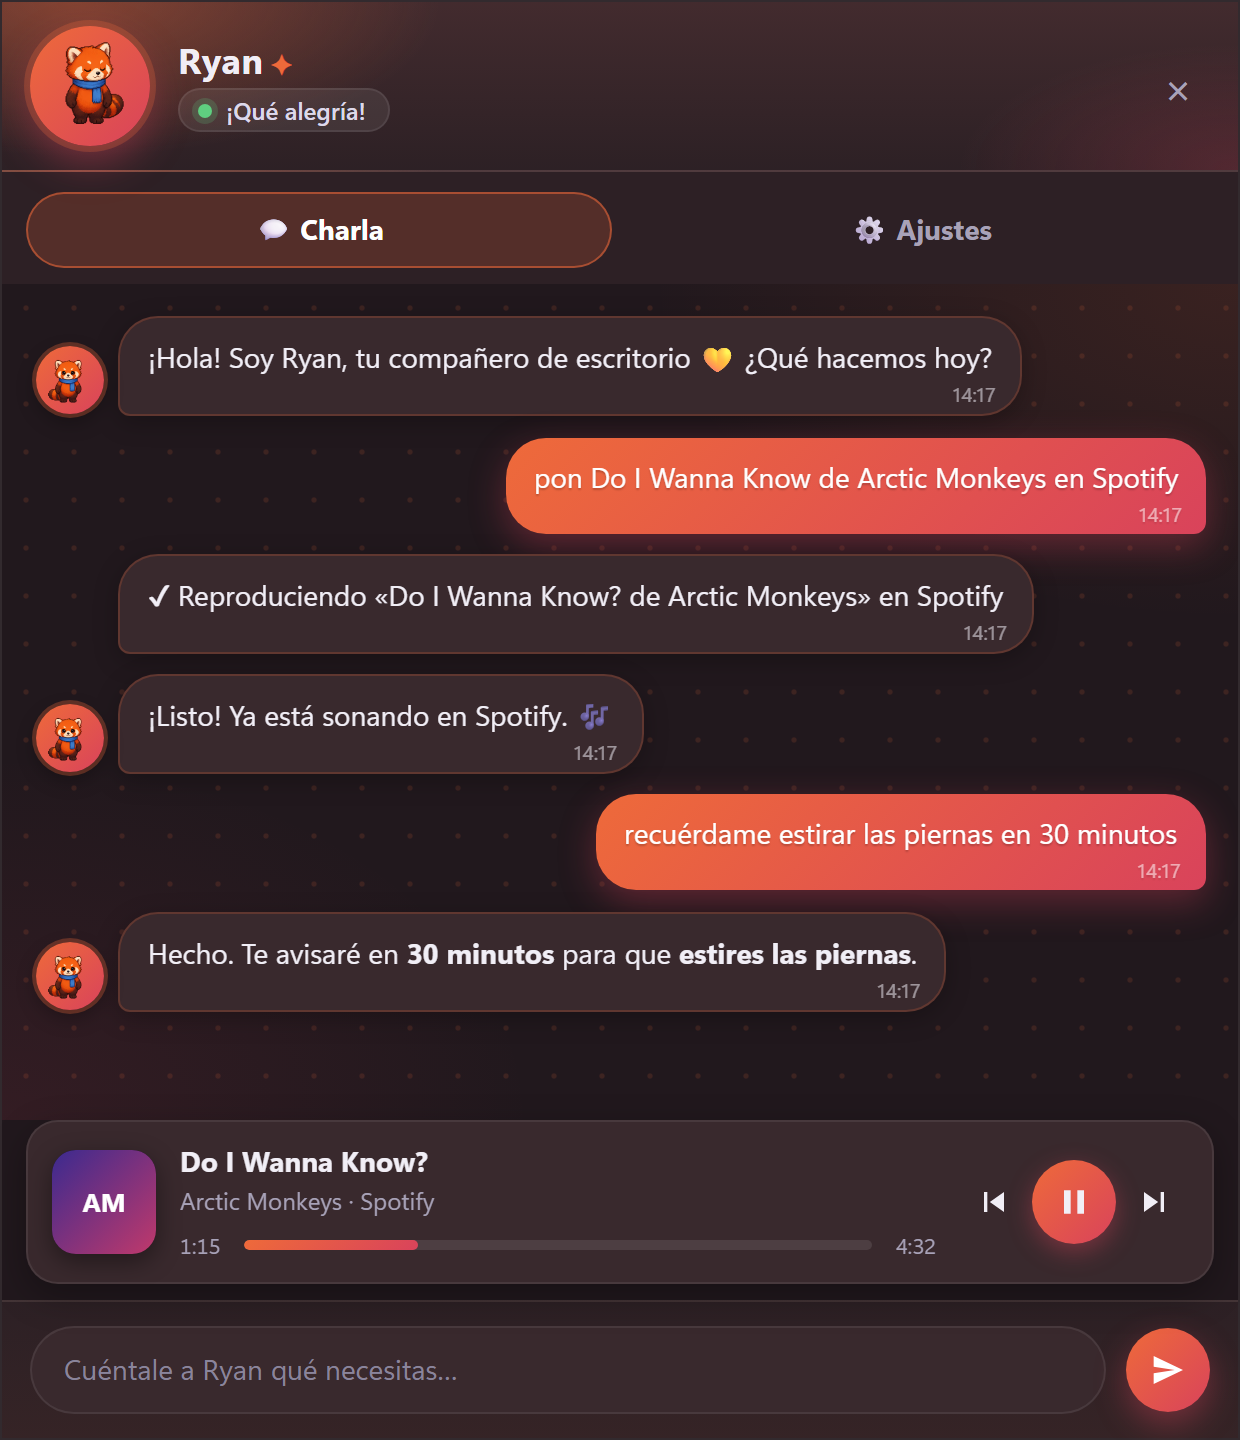
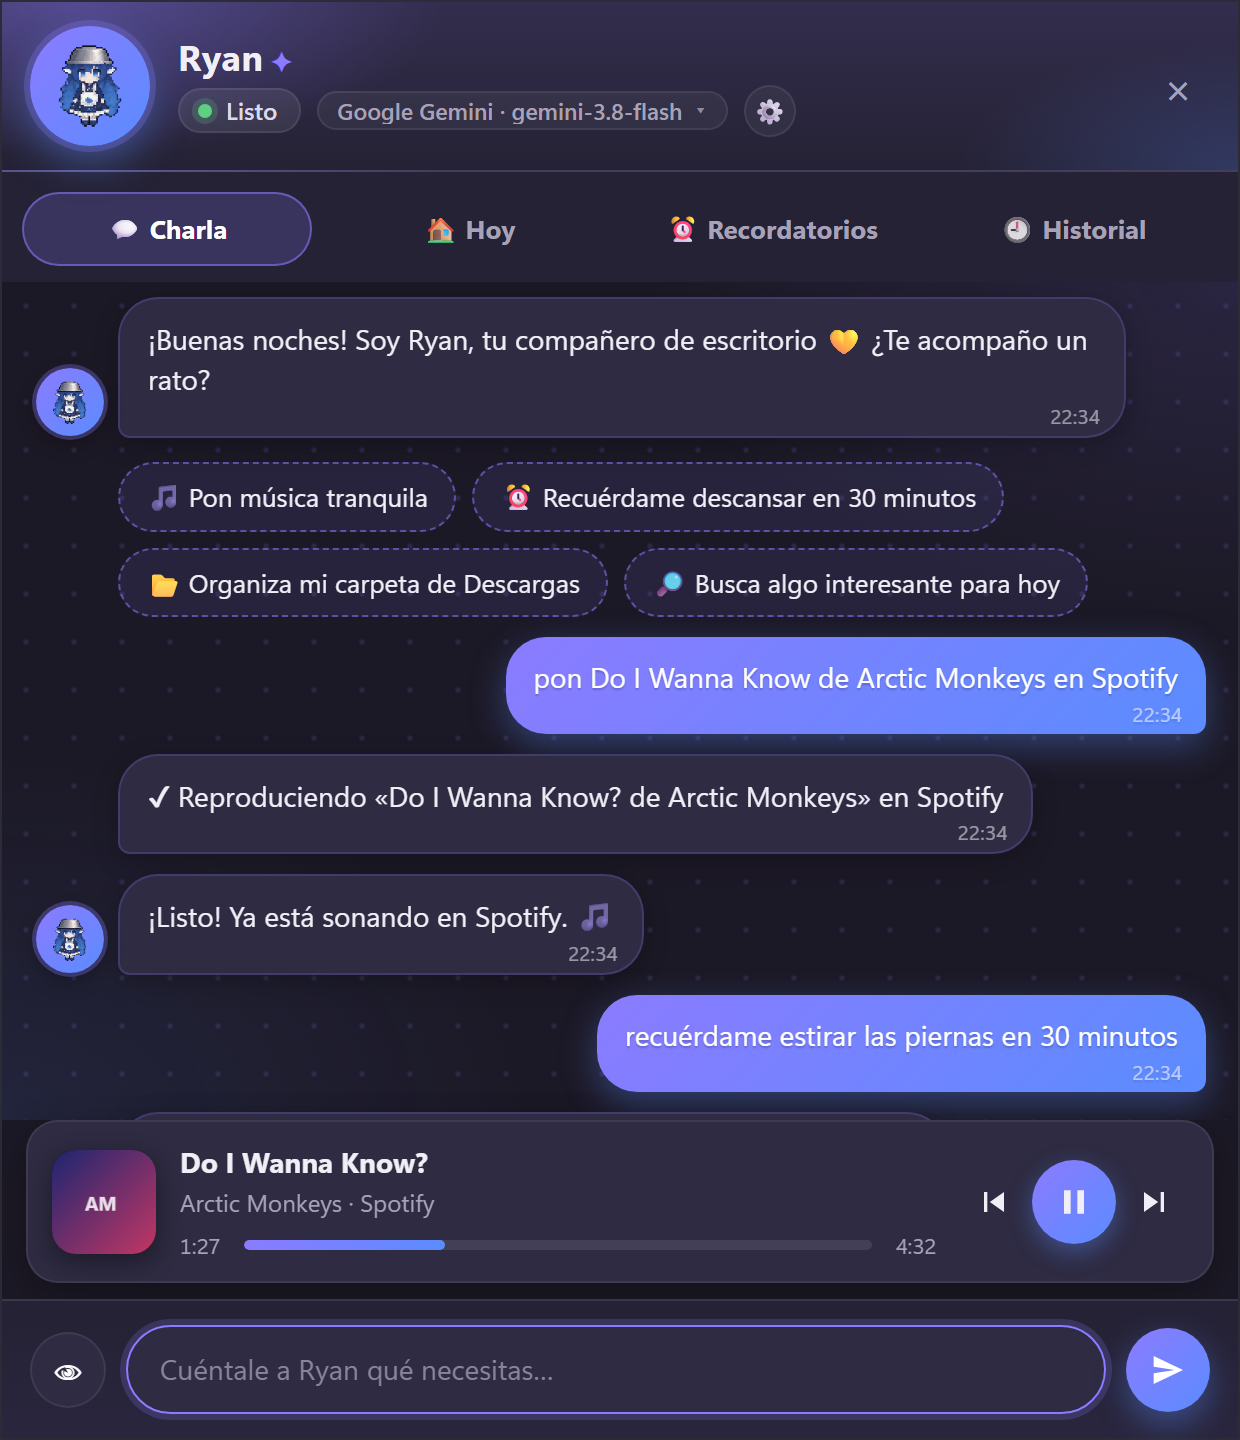
feat: add settings button and theme color adjustments for character selection

diff --git a/ui/chat.html b/ui/chat.html
@@ -16,18 +16,17 @@
       <button id="model-pill" class="model-pill" type="button" title="Cambiar de modelo" aria-haspopup="menu" aria-expanded="false" hidden>
         <span id="model-pill-text"></span><span class="caret" aria-hidden="true">▾</span>
       </button>
+      <button id="settings-btn" class="gear-btn" type="button" title="Ajustes" aria-label="Ajustes" aria-pressed="false">⚙</button>
       </div>
     </div>
     <button id="close" title="Cerrar (Esc)" aria-label="Cerrar">&times;</button>
   </header>
   <div id="model-menu" class="model-menu" role="menu" aria-label="Modelo de IA" hidden></div>
   <nav class="tabs" role="tablist">
-    <button class="tab" role="tab" data-tab="today" aria-selected="false" title="Hoy">🏠 <span class="tab-label">Hoy</span></button>
     <button class="tab active" role="tab" data-tab="chat" aria-selected="true" title="Charla">💬 <span class="tab-label">Charla</span></button>
+    <button class="tab" role="tab" data-tab="today" aria-selected="false" title="Hoy">🏠 <span class="tab-label">Hoy</span></button>
     <button class="tab" role="tab" data-tab="reminders" aria-selected="false" title="Recordatorios">⏰ <span class="tab-label">Recordatorios</span> <span id="reminder-badge" class="count" hidden></span></button>
-    <button class="tab" role="tab" data-tab="history" aria-selected="false" title="Historial">🕘 <span class="tab-label">Historial</span></button>
-    <button class="tab" role="tab" data-tab="settings" aria-selected="false">⚙ Ajustes</button>
-  </nav>
+    <button class="tab" role="tab" data-tab="history" aria-selected="false" title="Historial">🕘 <span class="tab-label">Historial</span></button></nav>
 
   <div id="view-chat" class="view">
     <main id="history"></main>

diff --git a/ui/quick.js b/ui/quick.js
@@ -170,3 +170,31 @@ listen("character-state", (e) => {
 });
 
 reset();
+
+// El color de la barra sigue al personaje elegido, igual que el chat (los colores salen de assets/characters.json).
+function hexToRgb(hex) {
+  const match = /^#([0-9a-f]{6})$/i.exec(hex ?? "");
+  if (!match) return null;
+  const n = parseInt(match[1], 16);
+  return [(n >> 16) & 255, (n >> 8) & 255, n & 255];
+}
+
+async function applyTheme() {
+  try {
+    const manifest = await fetch("assets/characters.json").then((response) => response.json());
+    const id = await invoke("get_character");
+    const entry = manifest.characters.find((c) => c.id === id) ?? manifest.characters[0];
+    const root = document.documentElement.style;
+    const accent = hexToRgb(entry.accent);
+    const accent2 = hexToRgb(entry.accent2);
+    if (accent) root.setProperty("--accent-rgb", accent.join(" "));
+    else root.removeProperty("--accent-rgb");
+    if (accent2) root.setProperty("--accent-2-rgb", accent2.join(" "));
+    else root.removeProperty("--accent-2-rgb");
+  } catch {
+    // sin el manifiesto se queda el violeta de siempre
+  }
+}
+applyTheme();
+listen("character-changed", applyTheme);
+listen("quick-opened", applyTheme);

diff --git a/ui/chat.js b/ui/chat.js
@@ -512,7 +512,16 @@ const views = {
   settings: document.getElementById("view-settings"),
 };
 
+// Ajustes vive en el engranaje de la cabecera, no entre las pestañas: se recuerda la pestaña anterior para volver a ella.
+const settingsBtn = document.getElementById("settings-btn");
+let currentTab = "chat";
+let tabBeforeSettings = "chat";
+
 function showTab(name) {
+  if (name === "settings" && currentTab !== "settings") tabBeforeSettings = currentTab;
+  currentTab = name;
+  settingsBtn.classList.toggle("active", name === "settings");
+  settingsBtn.setAttribute("aria-pressed", String(name === "settings"));
   tabs.forEach((tab) => {
     const active = tab.dataset.tab === name;
     tab.classList.toggle("active", active);
@@ -528,6 +537,8 @@ function showTab(name) {
   else if (name === "chat") input.focus();
 }
 tabs.forEach((tab) => tab.addEventListener("click", () => showTab(tab.dataset.tab)));
+// El engranaje abre Ajustes; si ya están abiertos, vuelve a lo que se estaba viendo.
+settingsBtn.addEventListener("click", () => showTab(currentTab === "settings" ? tabBeforeSettings : "settings"));
 
 // --- Recordatorios ---
 const reminderForm = document.getElementById("reminder-form");

diff --git a/ui/chat.css b/ui/chat.css
@@ -551,3 +551,12 @@ mark { padding: 0 2px; border-radius: 4px; background: rgb(var(--accent-rgb) / 0
 .risk.dangerous { color: var(--danger); background: rgba(255, 107, 99, 0.14); }
 .risk.muted { color: var(--muted); background: rgba(255, 255, 255, 0.06); font-weight: 600; }
 .apps-bar { display: flex; flex-wrap: wrap; align-items: center; gap: 8px; }
+
+/* ---------- Engranaje de Ajustes en la cabecera ---------- */
+.gear-btn {
+  display: grid; width: 26px; height: 26px; flex: none; padding: 0; place-items: center; border: 1px solid var(--line); border-radius: 50%;
+  background: rgba(255, 255, 255, 0.05); font-size: 13px; line-height: 1; cursor: pointer;
+  transition: transform 0.25s, background 0.15s, border-color 0.15s;
+}
+.gear-btn:hover { background: rgb(var(--accent-rgb) / 0.18); border-color: rgb(var(--accent-rgb) / 0.55); transform: rotate(60deg); }
+.gear-btn.active { background: rgb(var(--accent-rgb) / 0.32); border-color: rgb(var(--accent-rgb) / 0.8); }

diff --git a/ui/quick.css b/ui/quick.css
@@ -3,8 +3,9 @@
   --accent-rgb: 139 123 255;
   --accent-2-rgb: 91 140 255;
   --accent: rgb(var(--accent-rgb));
-  --bg: #1d1b26;
-  --card: #26232f;
+  /* Los fondos se tiñen con el color del personaje, como en el chat. */
+  --bg: color-mix(in srgb, var(--accent) 7%, #1a1822);
+  --card: color-mix(in srgb, var(--accent) 12%, #25222e);
   --line: rgba(255, 255, 255, 0.1);
   --text: #f1eef6;
   --muted: #a8a2b8;

diff --git a/README.md b/README.md
@@ -81,7 +81,7 @@ Trae siete personajes; puedes [añadir los tuyos](#añadir-un-personaje).
 | --- | --- |
 | **Personaje** | Se anima según lo que hace (reposo, pensando, trabajando, contenta…), pasea por el escritorio, mira hacia el cursor, avisa con la batería baja y sugiere descansos. Su tono cambia con la hora, la batería y cuánto llevas trabajando, y reacciona cuando termina una descarga, conectas una memoria USB o se acerca un recordatorio. |
 | **Chat** | Las respuestas se escriben en directo (con Ollama), una paleta de comandos al escribir `/`, y un selector de proveedor y modelo en la cabecera. Puedes **pegar una captura** (Ctrl + V) o pulsar 👁 para **mirar una ventana**: la ves antes de adjuntarla (con un modelo con visión). |
-| **Barra rápida** | Un campo pequeño sobre el escritorio (atajo **Win + Shift + J**) para pedir algo sin abrir el chat. La respuesta aparece ahí, y si algo necesita tu permiso se abre el chat. Todo queda también en el historial. |
+| **Barra rápida** | Un campo pequeño sobre el escritorio (atajo **Win + Shift + J**) para pedir algo sin abrir el chat. La respuesta aparece ahí, y si algo necesita tu permiso se abre el chat. Todo queda también en el historial. Toma los colores del personaje que elijas. |
 | **Modos** | **Normal, Trabajo, Descanso y Concentración**: cambian a la vez cómo se comporta la mascota (paseos, comentarios, sonidos) y el tono de las respuestas, y los atajos de *Hoy*. Se aplican por encima de tus ajustes: al volver a Normal todo queda como lo tenías. |
 | **Hoy** | Una pestaña con lo importante de un vistazo: lo que suena (con controles), tus próximos recordatorios, batería, memoria y espacio en disco, tu última conversación y atajos para pedir cosas con un clic. |
 | **Historial** | Tus conversaciones se guardan en tu equipo. Puedes buscarlas (sin importar mayúsculas ni tildes), releerlas y **continuarlas**: Ryan recupera lo que hablasteis. Se puede apagar y borrar en cualquier momento. |
@@ -133,7 +133,7 @@ cd ryan
 
 ## Configuración
 
-No hay archivos de configuración que editar a mano: todo se hace desde la propia aplicación, en la pestaña **Ajustes** del chat.
+No hay archivos de configuración que editar a mano: todo se hace desde la propia aplicación, con el engranaje ⚙ de la cabecera del chat (junto al modelo en uso).
 
 ### 1. Elige tu IA
 
